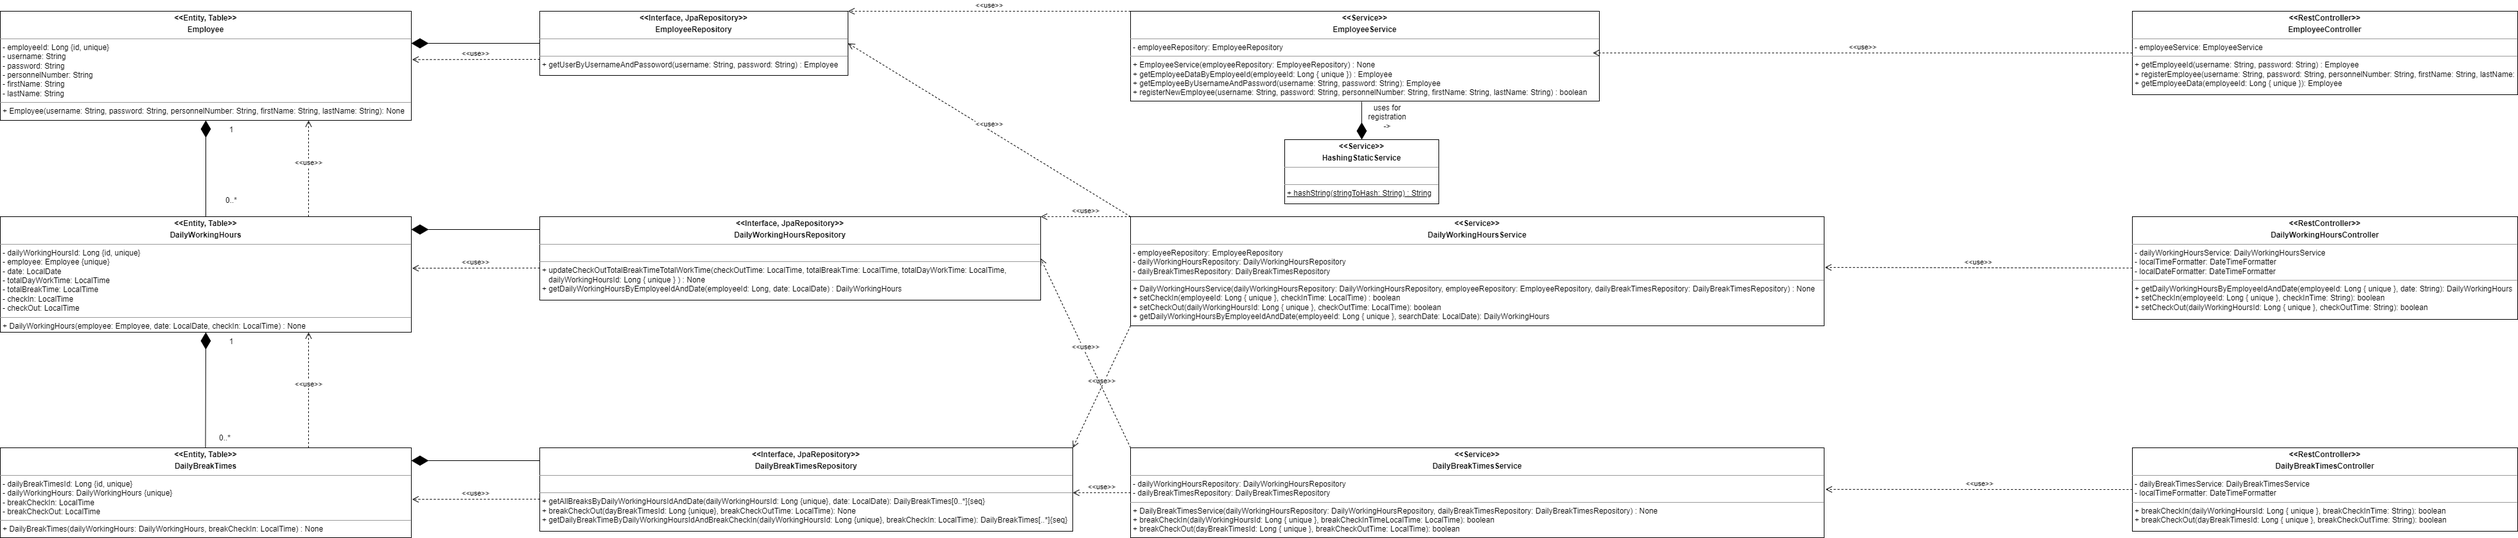
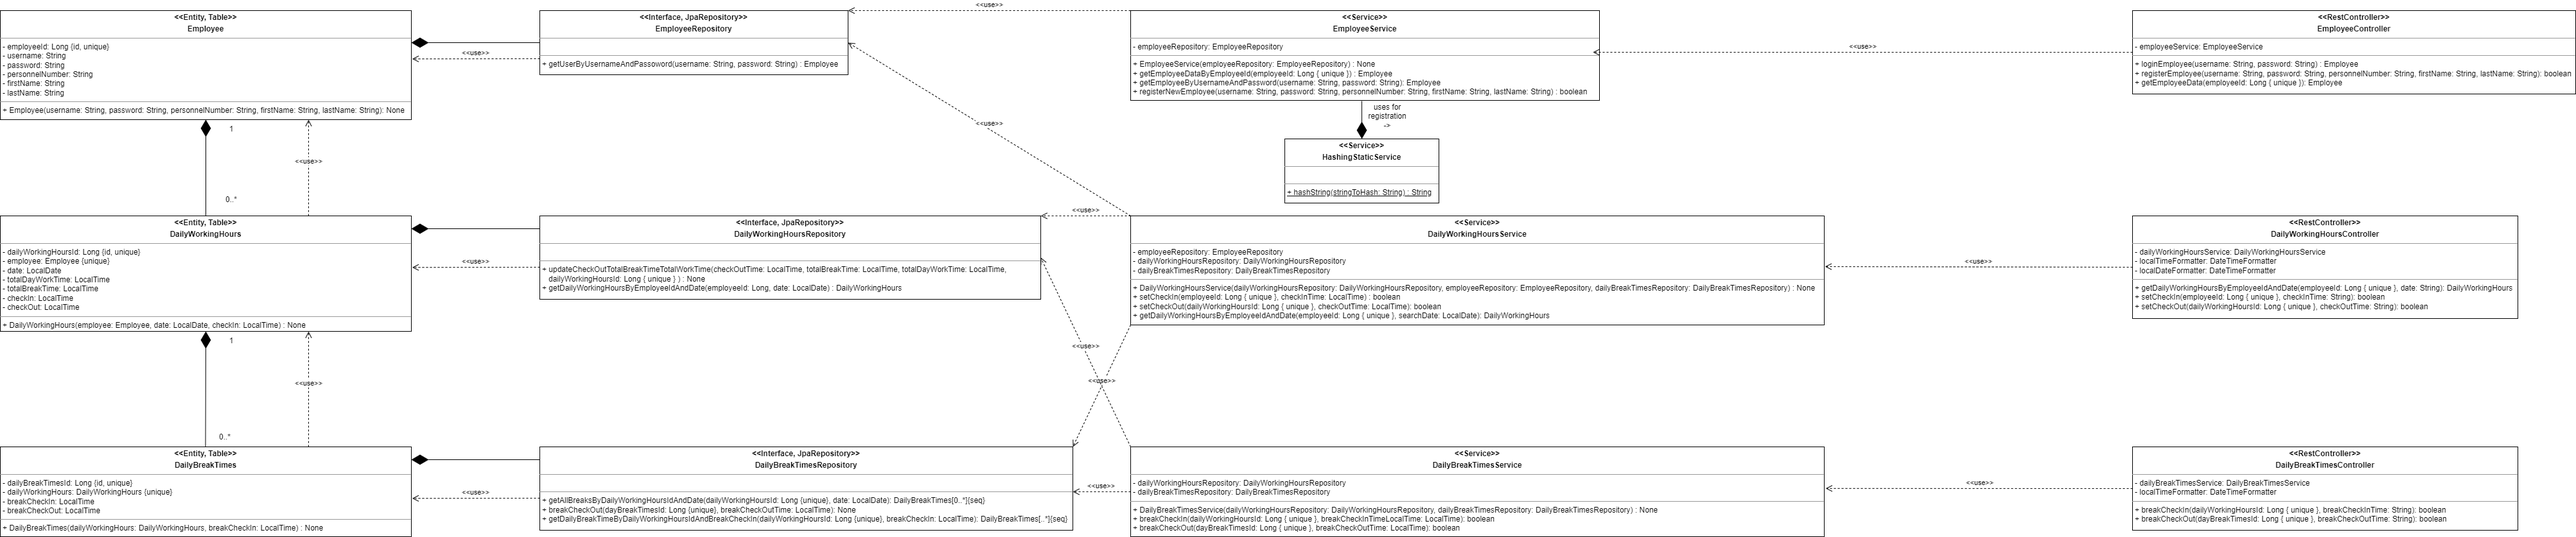
Refactoring the backend - Changed the controller getEmployeeId method to loginEmployee

diff --git a/src/main/java/com/trackit/trackit/controller/EmployeeController.java b/src/main/java/com/trackit/trackit/controller/EmployeeController.java
@@ -9,8 +9,6 @@ import org.springframework.web.bind.annotation.GetMapping;
 import org.springframework.web.bind.annotation.RequestParam;
 import org.springframework.web.bind.annotation.RestController;
 
-import java.util.Optional;
-
 @RestController
 @RequiredArgsConstructor
 public class EmployeeController {
@@ -18,7 +16,7 @@ public class EmployeeController {
     private final EmployeeService employeeService;
 
     @GetMapping(path = "api/employee/loginEmployee")
-    public Employee getEmployeeId(
+    public Employee loginEmployee(
             @RequestParam(value = "username", required = true) String username,
             @RequestParam(value = "password", required = true) String password
     ) {
